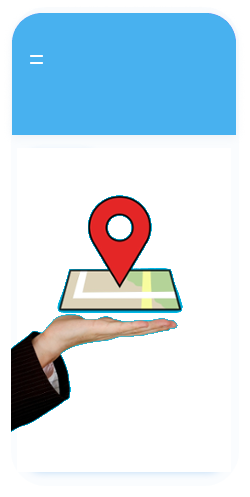
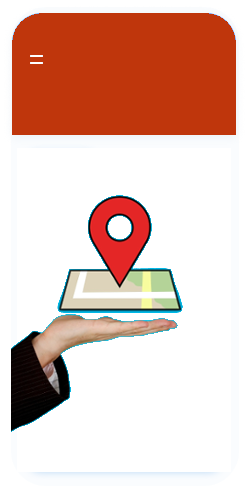
Updated content

Changed region(s): [[0.028, 0.0, 0.952, 0.2716]]

diff --git a/src/components/content.js b/src/components/content.js
@@ -1,14 +1,16 @@
 import React from "react"
 
-import feature from "../images/feature.png"
+import TravellingNews from "../images/TravellingNews.png"
+import HyperlocalNews from "../images/HyperlocalNews.png"
+import OnDemandNews from "../images/OnDemandNews.png"
 import SectionHeader from "./section-header"
 import { COLORS } from "../styles/constants"
 
 const Content = () => (
   <div style={{ padding: "4rem 1rem", textAlign: "center" }}>
     <SectionHeader
-      title="Direct to you News"
-      description="Go beyond traffic, or restaurants and get real news on the map."
+      title="Views without the filters"
+      description="On Demand & Direct. Want a point of view? Just ask for it."
     />
     <content
       style={{
@@ -18,16 +20,60 @@ const Content = () => (
         gridTemplateColumns: "repeat(auto-fit, minmax(240px, 340px))",
       }}
     >
+    
       <div>
-        <h3>News on Demand</h3>
-        <p style={{ color: COLORS.gray }}>
-          Traveling to a new place? Point location on the map and ask for coverage
-        </p>
+        <img src={TravellingNews} alt="a blank card floating over colorful graphics" />
       </div>
-      <div>
-        <img src={feature} alt="a blank card floating over colorful graphics" />
+      <div style={{ textAlign: "left"}}>
+        <h3 style={{ color: COLORS.gray }}>Travelling?</h3>
+        <p>
+          Connect with current travellers or locals around the place. Real-time situation report. 
+        </p>
       </div>      
     </content>
+
+    <content
+      style={{
+        display: "grid",
+        alignItems: "center",
+        justifyContent: "center",
+        gridTemplateColumns: "repeat(auto-fit, minmax(240px, 340px))",
+      }}
+    >
+    
+      <div>
+        <img src={OnDemandNews} alt="a blank card floating over colorful graphics" />
+      </div>
+      <div style={{ textAlign: "left"}}>
+        <h3 style={{ color: COLORS.gray }}>On Demand</h3>
+        <p>
+          Planning an investment. Get a ground reporter on demand for an exclusive report.
+        </p>
+      </div>      
+    </content>
+
+
+    <content
+      style={{
+        display: "grid",
+        alignItems: "center",
+        justifyContent: "center",
+        gridTemplateColumns: "repeat(auto-fit, minmax(240px, 340px))",
+      }}
+    >
+    
+      <div>
+        <img src={HyperlocalNews} alt="a blank card floating over colorful graphics" />
+      </div>
+      <div style={{ textAlign: "left"}}>
+        <h3 style={{ color: COLORS.gray }}>Go Hyper Local</h3>
+        <p>
+          Read/View latest area news contributed by people. Zoom in news on Maps. Get Notified.
+        </p>
+      </div>      
+    </content>
+
+    
   </div>
 )
 

diff --git a/src/components/hero.js b/src/components/hero.js
@@ -32,9 +32,9 @@ const Header = ({ siteTitle }) => (
     />
     <h1 style={{ textAlign: "center" }}>GREAT NEWS APP</h1>
     <p style={{ textAlign: "center", maxWidth: 440 }}>
-    Go beyond the noise of TV debates and get the real reactions by real people on the ground. 
+    Go beyond the noise of TV debates and get the <strong>real reactions</strong> by <strong>real people</strong> on the ground. 
     </p>
-    <Button>Get early access</Button>
+    <Button>GET EARLY ACCESS</Button>
     <div style={{ display: "flex", margin: "6px"}}>
       <img style={{width: "24px", height: "24px"}} src={whatsapp}></img>
       <small style={{color: "grey", paddingLeft: "3px", fontSize: "15px"}}>Join our Whatsapp group</small>

diff --git a/src/components/cta.js b/src/components/cta.js
@@ -10,7 +10,7 @@ const CallToAction = () => (
       title="Limited Preview"
       description="Join the invite list to be first to receive great news!"
     />
-    <Button>Get early access</Button>
+    <Button>GET EARLY ACCESS</Button>
     <div style={{ display: "flex", margin: "6px"}}>
       <img style={{width: "24px", height: "24px"}} src={whatsapp}></img>
       <small style={{color: "grey", paddingLeft: "3px", fontSize: "15px"}}>Join our Whatsapp group</small>

diff --git a/src/styles/constants.js b/src/styles/constants.js
@@ -5,10 +5,14 @@ export const COLORS = {
   gray: "#A0A4A6",
   babyBlue: "#50CAF9",
   blue: "#5368f1",
+  amber: "#FF6F00",
+  amberLight: "#FF8F00",
+  redLighten3: "#F4511E",
+  red: "#BF360C"
 }
 
-export const GRADIENT = `linear-gradient(to top right, ${COLORS.babyBlue}, ${
-  COLORS.blue
+export const GRADIENT = `linear-gradient(to top right, ${COLORS.redLighten3}, ${
+  COLORS.red
 })`
 
-export const BORDER_RADIUS = "10px"
+export const BORDER_RADIUS = "2px"

diff --git a/src/components/section-header.js b/src/components/section-header.js
@@ -4,8 +4,10 @@ import { COLORS } from "../styles/constants"
 
 const SectionHeader = ({ title, description }) => (
   <>
-    <h2>{title}</h2>
-    <p style={{ color: COLORS.mediumGray }}>{description}</p>
+    <div style={{ padding: "0 0 40px 0" }}>
+      <h2>{title}</h2>
+      <p style={{ color: COLORS.mediumGray }}>{description}</p>
+    </div>
   </>
 )
 

diff --git a/src/styles/button.css b/src/styles/button.css
@@ -1,7 +1,7 @@
 button {
-  box-shadow: 0px 5px 20px -2px rgba(121, 211, 255, 0.25);
+  box-shadow: 0px 5px 20px -2px rgba(255, 121, 121, 0.25);
   transition: all 0.5s ease-in-out;
 }
 button:hover {
-  box-shadow: 0px 5px 20px -2px rgba(121, 211, 255, 0.75);
+  box-shadow: 0px 5px 20px -2px rgba(255, 148, 121, 0.75);
 }

diff --git a/src/styles/default.css b/src/styles/default.css
@@ -204,7 +204,7 @@ h1 {
     Ubuntu, Cantarell, Fira Sans, Droid Sans, Helvetica Neue, sans-serif;
   font-weight: bold;
   text-rendering: optimizeLegibility;
-  font-size: 2.25rem;
+  font-size: 2.5rem;
   line-height: 1.1;
 }
 h2 {
